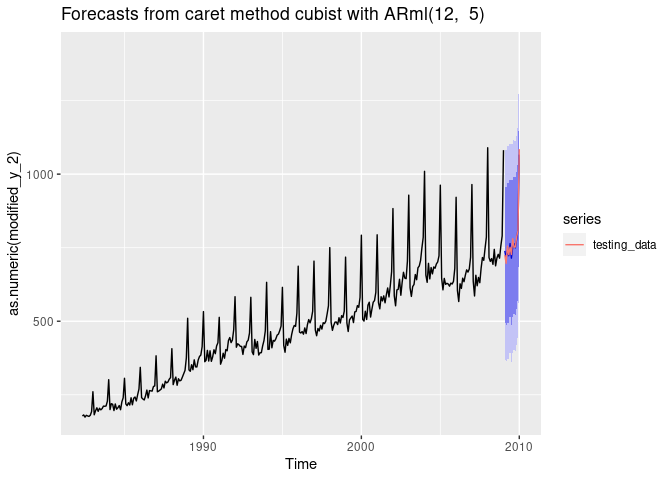
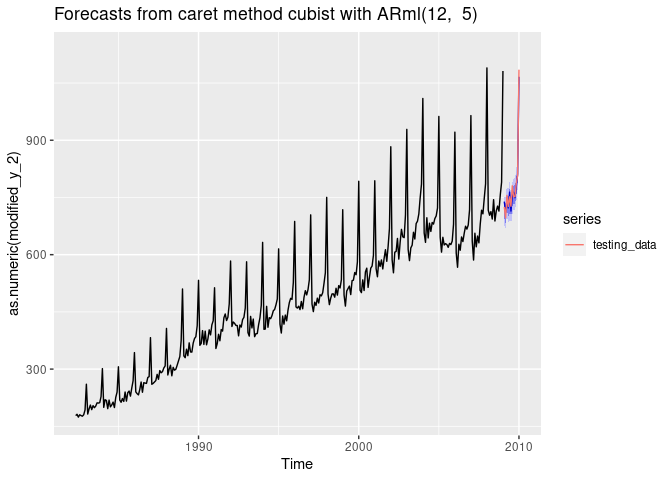
readme file

diff --git a/README.md b/README.md
@@ -39,8 +39,6 @@ library(caretForecast)
 #> Registered S3 method overwritten by 'quantmod':
 #>   method            from
 #>   as.zoo.data.frame zoo
-library(forecast)
-
 # Forecasting Retail Data with glmboost
 data(retail_wide, package = "caretForecast")
 
@@ -56,8 +54,7 @@ fit <- ARml(training_data, max_lag = 12, caret_method = "glmboost",
             verbose = FALSE)
 #> Loading required package: lattice
 #> Loading required package: ggplot2
-
-forecast(fit, h = length(testing_data), level = c(95,80))-> fc
+forecast(fit, h = length(testing_data), level = c(80,95), PI = TRUE)-> fc
 
 accuracy(fc, testing_data)
 #>                     ME     RMSE      MAE        MPE     MAPE      MASE
@@ -66,17 +63,13 @@ accuracy(fc, testing_data)
 #>                   ACF1 Theil's U
 #> Training set 0.5707204        NA
 #> Test set     0.3971016 0.7547318
-
-
-fc_plot(fc) + 
+autoplot(fc) + 
   autolayer(testing_data, series = "testing_data")
 ```
 
 <img src="man/figures/README-example-1.png" width="100%" />
 
 ``` r
-
-
 ## NOTE : Promotions, holidays, and other external variables can be added in the model via xreg argument. Please look at the documentation of ARml.
 
 # Forecasting Retail Data with cubist regression
@@ -94,7 +87,7 @@ testing_data <- dtlist$test
 fit <- ARml(training_data, max_lag = 12, caret_method = "cubist", 
             verbose = FALSE)
 
-forecast(fit, h = length(testing_data), level = c(95,80))-> fc
+forecast(fit, h = length(testing_data), level = c(80,95), PI = TRUE)-> fc
 
 accuracy(fc, testing_data)
 #>                     ME     RMSE      MAE         MPE     MAPE      MASE
@@ -103,16 +96,13 @@ accuracy(fc, testing_data)
 #>                    ACF1 Theil's U
 #> Training set  0.2309758        NA
 #> Test set     -0.1450719 0.1701567
-
-fc_plot(fc) + 
+autoplot(fc) + 
   autolayer(testing_data, series = "testing_data")
 ```
 
 <img src="man/figures/README-example-2.png" width="100%" />
 
 ``` r
-
-
 # Forecasting using Support Vector Machines with Linear Kernel
 
 data(retail_wide, package = "caretForecast")
@@ -128,7 +118,7 @@ testing_data <- dtlist$test
 fit <- ARml(training_data, max_lag = 12, caret_method = "svmLinear2", 
             verbose = FALSE)
 
-forecast(fit, h = length(testing_data), level = c(95,80))-> fc
+forecast(fit, h = length(testing_data), level = c(80,95), PI = TRUE)-> fc
 
 accuracy(fc, testing_data)
 #>                      ME      RMSE       MAE        MPE     MAPE      MASE
@@ -137,8 +127,7 @@ accuracy(fc, testing_data)
 #>                    ACF1 Theil's U
 #> Training set 0.06480896        NA
 #> Test set     0.33020419  0.884742
-
-fc_plot(fc) + 
+autoplot(fc) + 
   autolayer(testing_data, series = "testing_data")
 ```
 
@@ -177,9 +166,6 @@ get_var_imp(fc, plot = F)
 #> S1-12   0.40638
 #> S2-12   0.09599
 #> C5-12   0.05234
-
-
-
 # Forecasting using Ridge Regression
 data(retail_wide, package = "caretForecast")
 
@@ -194,7 +180,7 @@ testing_data <- dtlist$test
 fit <- ARml(training_data, max_lag = 12, caret_method = "ridge", 
             verbose = FALSE)
 
-forecast(fit, h = length(testing_data), level = c(95,80))-> fc
+forecast(fit, h = length(testing_data), level = c(80,95), PI = TRUE)-> fc
 
 accuracy(fc, testing_data)
 #>                     ME     RMSE      MAE        MPE     MAPE      MASE
@@ -203,8 +189,7 @@ accuracy(fc, testing_data)
 #>                     ACF1 Theil's U
 #> Training set 0.004518837        NA
 #> Test set     0.389409945 0.6513039
-
-fc_plot(fc) + 
+autoplot(fc) + 
   autolayer(testing_data, series = "testing_data")
 ```
 
